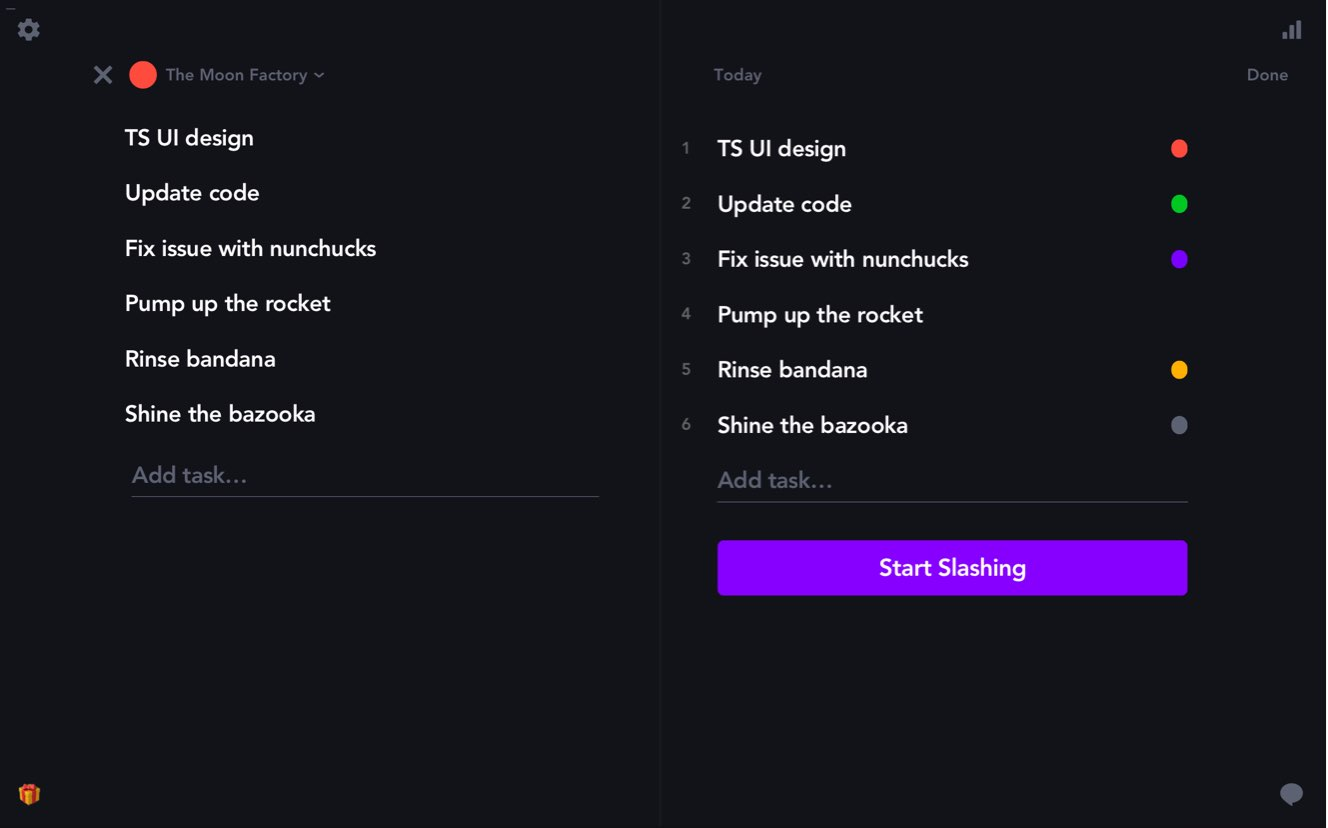
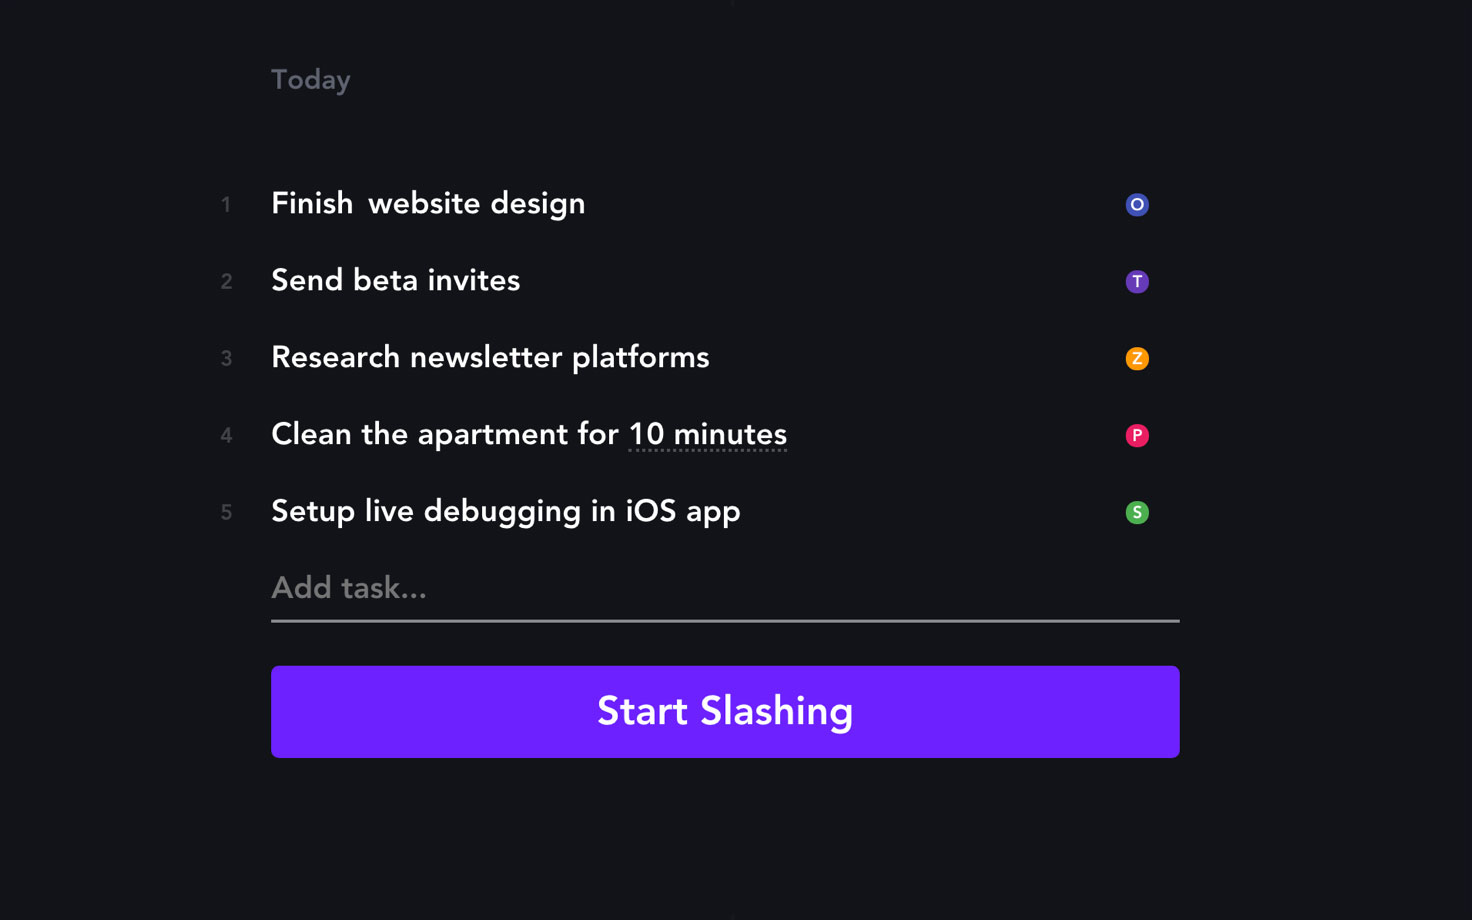
Sync fixes

diff --git a/index.html b/index.html
@@ -84,13 +84,13 @@ layout: page
 							-->
 						</div>
 						<div class="focus">
-							<p class="task-text">Buy groceries</p>
+							<p class="task-text">Finish website design</p>
 							<span class="timer">0:00</span>
 						</div>
 						<div class="reward">
 							<h3>Nice job!</h3>
 							<img src="https://media.giphy.com/media/l3q2Z6S6n38zjPswo/giphy.gif"/>
-							<p><span>Next task:</span> Feed the cat</p>
+							<p><span>Next task:</span> Send beta invites</p>
 							<button class="btn btn-primary btn-lg">Keep Slashing</button>
 							<small>or <u>take a break</u></small>
 						</div>
@@ -160,10 +160,8 @@ layout: page
 			<div class="container">
 				<div class="flex">
 					<div class="image">
-						<img class="mobile" src="/images/mobile-app.png"/>
-						<img class="desktop" src="/images/desktop-app.png"/>
-						<img class="platforms hidden-sm hidden-xs" src="/images/platforms.jpg"/>
-						<img class="platforms-sm visible-sm visible-xs" src="/images/platforms-sm.jpg?v=1"/>
+						<img class="platforms hidden-sm hidden-xs" src="/images/platforms.jpg?v=2"/>
+						<img class="platforms-sm visible-sm visible-xs" src="/images/platforms-sm.jpg?v=2"/>
 					</div>
 					<div class="text">
 						<div>

diff --git a/css/style.css b/css/style.css
@@ -4233,7 +4233,7 @@ p {
           transform: translate(-50%, 0);
           height: 100%;
           width: 100%;
-          background: url(../images/homescreen.jpg?v=3) no-repeat center center;
+          background: url(../images/homescreen.jpg?v=6) no-repeat center center;
           background-size: cover;
           opacity: 0;
           display: block;
@@ -4304,7 +4304,8 @@ p {
         height: 100%;
         width: 100%;
         opacity: 0;
-        transition: all .5s ease-in-out; }
+        transition: all .5s ease-in-out;
+        background: #121318; }
         @media (max-width: 991px) {
           .how .screen .app.step3 .reward {
             padding: 30px 0; } }

diff --git a/scss/_theme.scss b/scss/_theme.scss
@@ -608,7 +608,7 @@ p{
 					transform: translate(-50%, 0);
 					height: 100%;
 					width: 100%;
-					background: url(../images/homescreen.jpg?v=3) no-repeat center center;
+					background: url(../images/homescreen.jpg?v=6) no-repeat center center;
 					background-size: cover;
 					opacity: 0;
 					display: block;
@@ -734,6 +734,7 @@ p{
 					width: 100%;
 					opacity: 0;
 					transition: all .5s ease-in-out;
+					background: #121318;
 
 					@media (max-width: $screen-sm-max) {
 						padding: 30px 0;

diff --git a/js/main.js b/js/main.js
@@ -163,8 +163,8 @@ function changeStep(step){
 		let time = 0
 		$('.timer').text('0:00')
 		$('.app').removeClass('step1 step3 active').addClass('step2')
-		if(step === 2) $('.focus .task-text').text('Buy Groceries')
-		else $('.focus .task-text').text('Finish website design')
+		if(step === 2) $('.focus .task-text').text('Finish website design')
+		else $('.focus .task-text').text('Send beta invites')
 			setTimeout(() => {
 				$('.app').addClass('active')
 				clearInterval(interval)

diff --git a/_includes/head.html b/_includes/head.html
@@ -10,7 +10,7 @@
 	<link rel="apple-touch-icon" href="/icon-128.png">
 
 	<link rel="stylesheet" href="/css/normalize.css">
-	<link rel="stylesheet" href="/css/style.css?rel=1573049096690">
+	<link rel="stylesheet" href="/css/style.css?rel=1574016630184">
 	<script src="/js/modernizr-2.8.3.min.js"></script>
 	<script src="https://code.jquery.com/jquery-1.12.0.min.js"></script>
 	<script>window.jQuery || document.write('<script src="js/jquery-1.12.0.min.js"><\/script>')</script>

diff --git a/_includes/footer.html b/_includes/footer.html
@@ -8,4 +8,4 @@
 
 <!--<script src="js/image-pieces.js"></script>-->
 <script src="/js/scripts.min.js?rel=1562246463222"></script>
-<script src="/js/main.js?rel=1573931979510"></script>
+<script src="/js/main.js?rel=1574013826213"></script>
